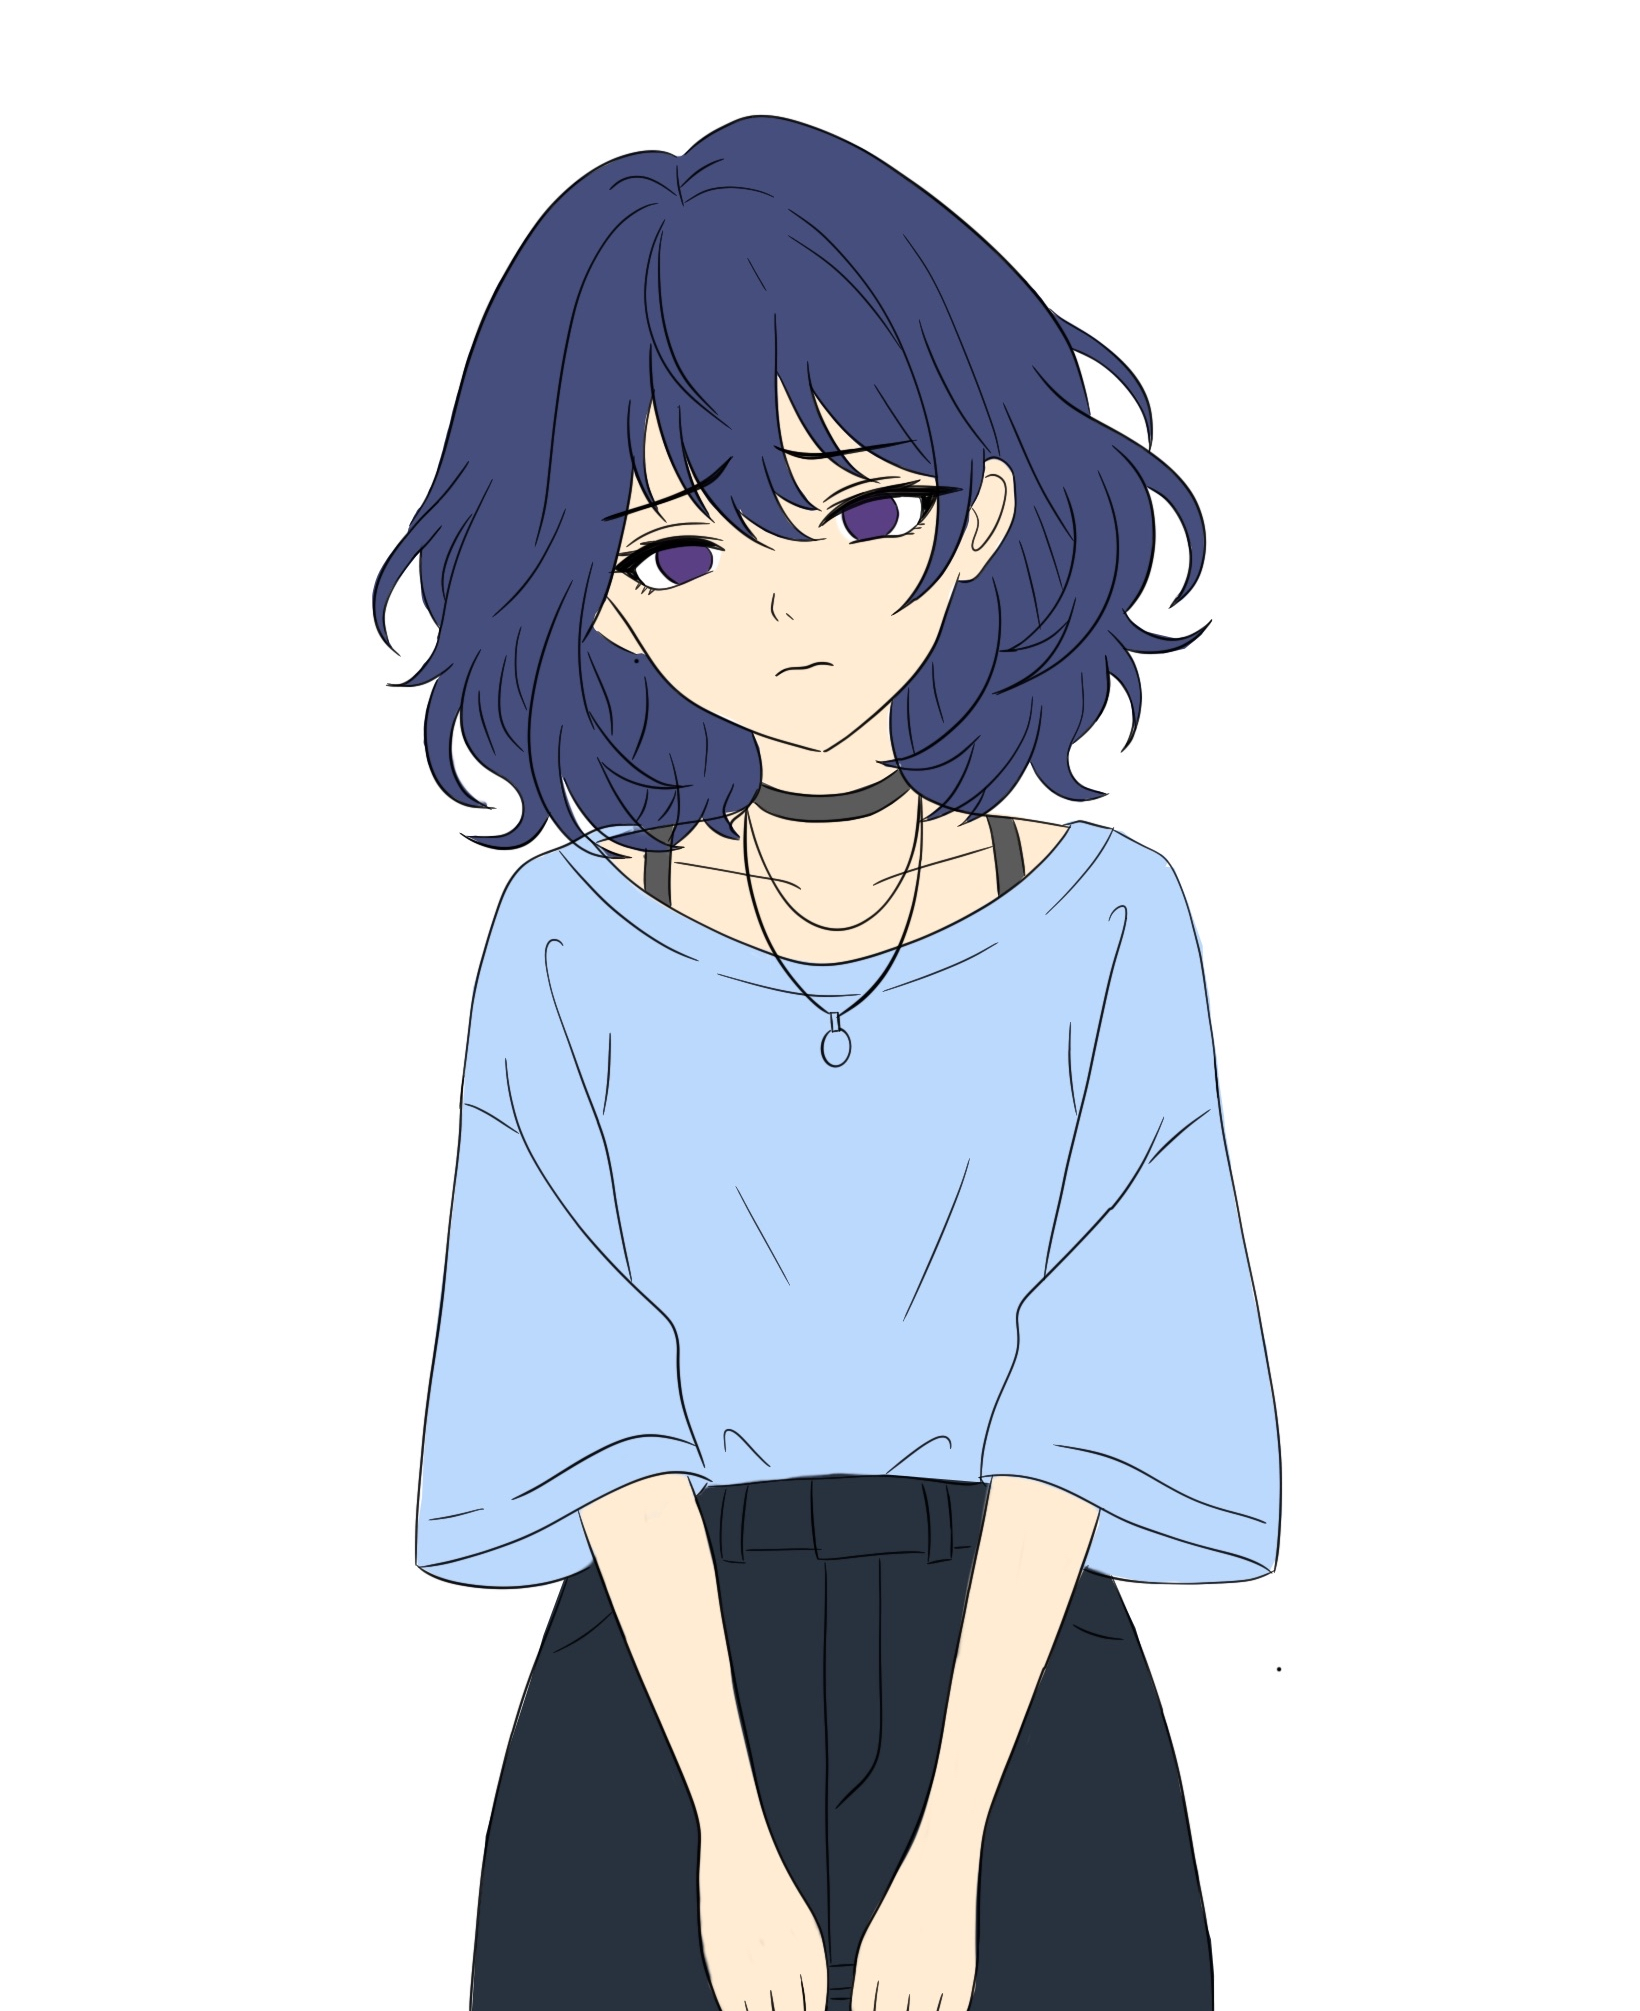
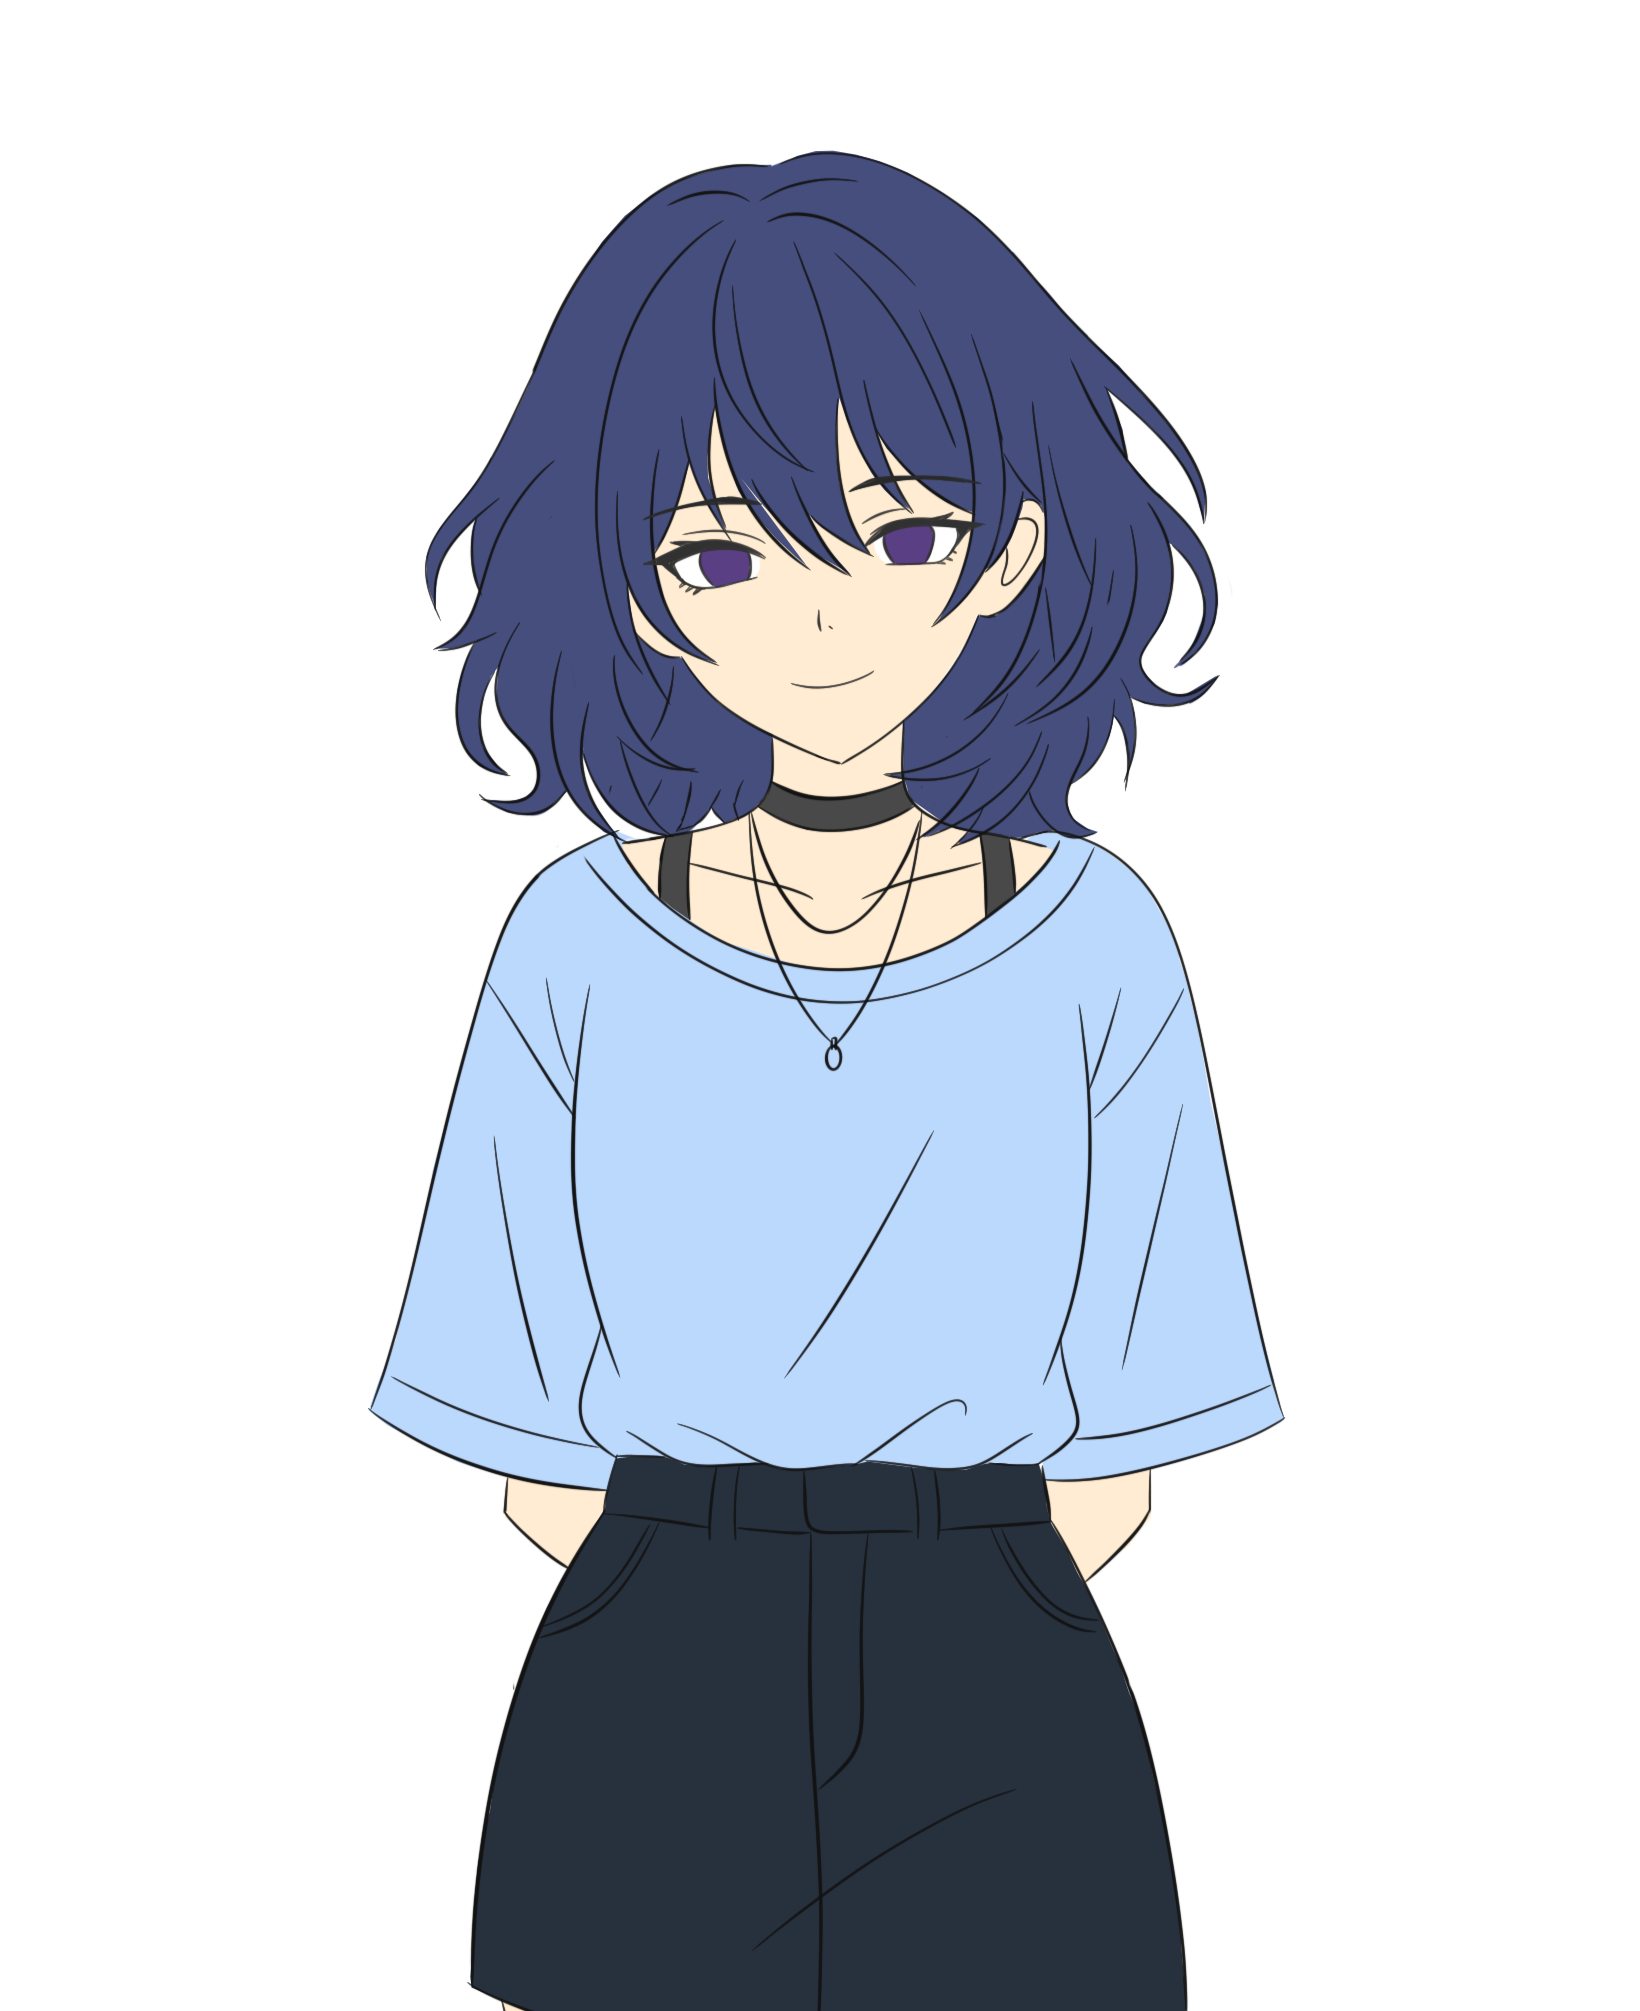
added new yunita images

diff --git a/yunita_frontend/index.html b/yunita_frontend/index.html
@@ -13,7 +13,7 @@
 
     <div id="main-menu-overlay">
         <div id="main-menu">
-            <img src="images/YunitaMita.png" alt="Yunita" class="menu-yunita-avatar">
+            <img src="images/image7.jpeg" alt="Yunita" class="menu-yunita-avatar">
             <h1>Yunita AI</h1>
             <p>Your friendly and shy AI companion.</p>
             <input type="text" id="name-input" placeholder="Enter your name to begin...">
